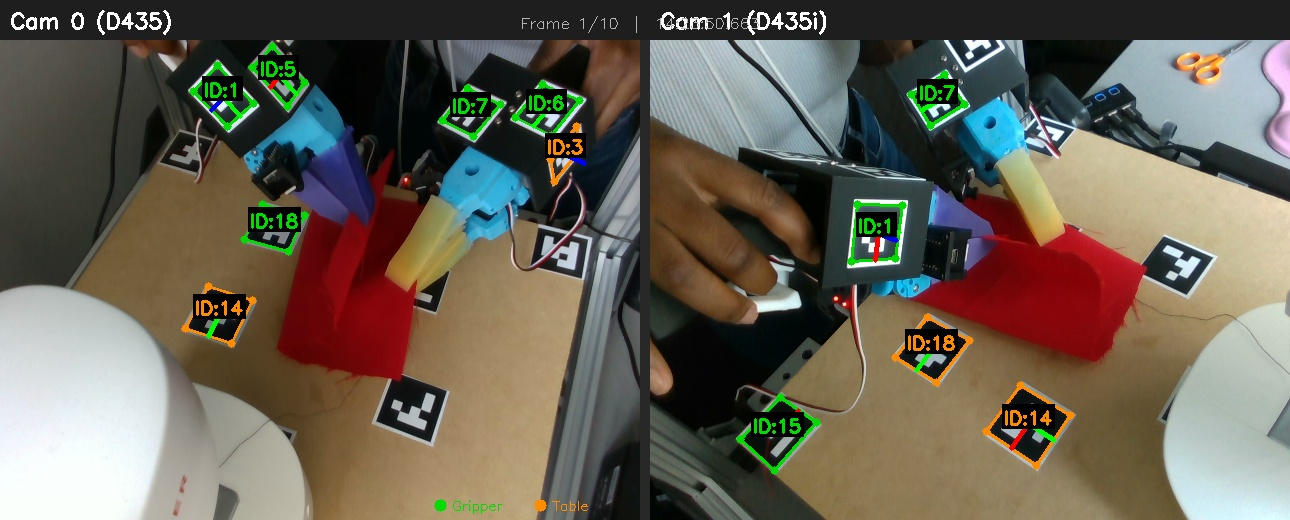
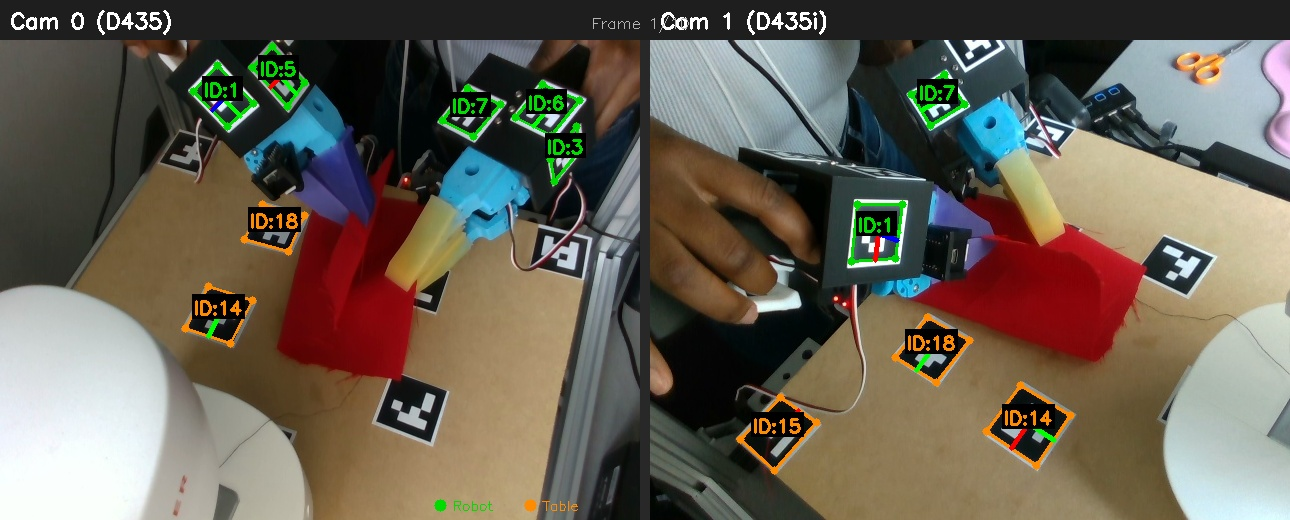
Add slideshow, sewing machine setup, and Why Me section with photos

diff --git a/assets/css/style.css b/assets/css/style.css
@@ -464,6 +464,61 @@ td {
   margin: 0;
 }
 
+/* === Slideshow === */
+.slideshow {
+  position: relative;
+  width: 100%;
+  overflow: hidden;
+  border-radius: var(--radius);
+  box-shadow: var(--shadow-md);
+  margin: 1.5rem 0;
+}
+.slideshow .slide {
+  display: none;
+}
+.slideshow .slide.active {
+  display: block;
+}
+.slideshow .slide img {
+  width: 100%;
+  display: block;
+}
+.slideshow .slide .media-caption {
+  padding: 0.5rem 0.75rem;
+  font-size: 0.82rem;
+  color: var(--text-muted);
+}
+.slideshow > .media-caption {
+  padding: 0.5rem 0.75rem;
+  font-size: 0.82rem;
+  color: var(--text-muted);
+}
+.slideshow-controls {
+  display: flex;
+  align-items: center;
+  justify-content: center;
+  gap: 1rem;
+  padding: 0.5rem 0;
+}
+.slideshow-controls button {
+  background: var(--bg-card);
+  border: 1px solid var(--border);
+  border-radius: var(--radius);
+  padding: 0.4rem 0.9rem;
+  cursor: pointer;
+  font-size: 0.9rem;
+  color: var(--text);
+  transition: background 0.15s;
+}
+.slideshow-controls button:hover {
+  background: var(--border-light);
+}
+.slideshow-counter {
+  font-size: 0.85rem;
+  color: var(--text-muted);
+  font-variant-numeric: tabular-nums;
+}
+
 /* === Responsive === */
 @media (max-width: 640px) {
   h1 { font-size: 1.75rem; }

diff --git a/projects/sew-unit.md b/projects/sew-unit.md
@@ -19,18 +19,56 @@ title: The Sew Unit
   </div>
 </div>
 
-<div class="media-block">
-  <img src="../assets/images/aruco-frame-000.jpg" alt="Stereo ArUco detection — gripper and table markers visible from both cameras">
+### Handheld Data Collection Grippers
+
+<div class="slideshow" id="aruco-slideshow">
+  <div class="slide active">
+    <img src="../assets/images/aruco-frame-000.jpg" alt="Stereo ArUco detection — frame 0">
+  </div>
+  <div class="slide">
+    <img src="../assets/images/aruco-frame-001.jpg" alt="Stereo ArUco detection — frame 1">
+  </div>
+  <div class="slide">
+    <img src="../assets/images/aruco-frame-002.jpg" alt="Stereo ArUco detection — frame 2">
+  </div>
+  <div class="slide">
+    <img src="../assets/images/aruco-frame-003.jpg" alt="Stereo ArUco detection — frame 3">
+  </div>
   <div class="media-caption">Stereo ArUco detection from two RealSense cameras. Green markers are mounted on handheld data collection grippers; orange markers on the table for calibration.</div>
 </div>
-
-<div class="media-block">
-  <img src="../assets/images/aruco-frame-001.jpg" alt="Stereo ArUco detection — gripper markers tracked during manipulation">
+<div class="slideshow-controls">
+  <button onclick="changeSlide('aruco-slideshow', -1)">&#8592; Prev</button>
+  <span class="slideshow-counter" id="aruco-slideshow-counter">1 / 4</span>
+  <button onclick="changeSlide('aruco-slideshow', 1)">Next &#8594;</button>
 </div>
 
-<div class="media-block">
-  <img src="../assets/images/aruco-frame-003.jpg" alt="Stereo ArUco detection — table calibration markers visible with cloth on workspace">
+<script>
+function changeSlide(id, dir) {
+  var ss = document.getElementById(id);
+  var slides = ss.querySelectorAll('.slide');
+  var current = ss.querySelector('.slide.active');
+  var idx = Array.prototype.indexOf.call(slides, current);
+  current.classList.remove('active');
+  idx = (idx + dir + slides.length) % slides.length;
+  slides[idx].classList.add('active');
+  document.getElementById(id + '-counter').textContent = (idx + 1) + ' / ' + slides.length;
+}
+</script>
+
+### Sewing Machine + Robot Arms Setup
+
+<div class="image-row" style="grid-template-columns: repeat(3, 1fr);">
+  <div class="media-block">
+    <img src="../assets/images/tab-view-0.jpeg" alt="Sewing machine and robot arms — side view">
+  </div>
+  <div class="media-block">
+    <img src="../assets/images/tab-view-1.jpeg" alt="Sewing machine and robot arms — top view">
+  </div>
+  <div class="media-block">
+    <img src="../assets/images/tab-view-2.jpeg" alt="Sewing machine and robot arms — front view">
+  </div>
 </div>
+<div class="media-caption">Prototype sitting on my lab bench.</div>
 
 ---
 

diff --git a/index.md b/index.md
@@ -77,3 +77,22 @@ title: Tabitha Oanda
     <div class="media-caption">Shoe upper sewing. <em>AI-generated concept.</em></div>
   </div>
 </div>
+
+<h2 id="why-me">Why Me</h2>
+
+<p class="bio">I'm a fashion designer who has commissioned contract manufacturers and a robotics researcher who builds full stacks from scratch. I've visited garment factories, worked sewing lines, and understand the constraints of both the seamstress and the robotic arm. I cold-pitched my own robotics internship at New Balance because I was uniquely positioned at the intersection of these two worlds. That combination — domain access, hands-on manufacturing experience, and the technical ability to build the robots — is what makes this work possible.</p>
+
+<div class="image-row" style="grid-template-columns: repeat(3, 1fr);">
+  <div class="media-block photo">
+    <img src="assets/images/tabby-factory.jpeg" alt="Tabby visiting an apparel manufacturing factory in Kenya">
+    <div class="media-caption">Visiting an apparel factory in Kenya.</div>
+  </div>
+  <div class="media-block photo">
+    <img src="assets/images/tabby-franka.jpeg" alt="Tabby holding a handheld sewing machine against a Franka robot arm">
+    <div class="media-caption">With a Franka arm and a handheld sewing machine.</div>
+  </div>
+  <div class="media-block photo">
+    <img src="assets/images/tabby-grippers.jpeg" alt="Tabby using handheld grippers to manipulate cloth on the sewing machine inside the robot cell">
+    <div class="media-caption">Collecting sewing demonstrations with handheld grippers.</div>
+  </div>
+</div>
